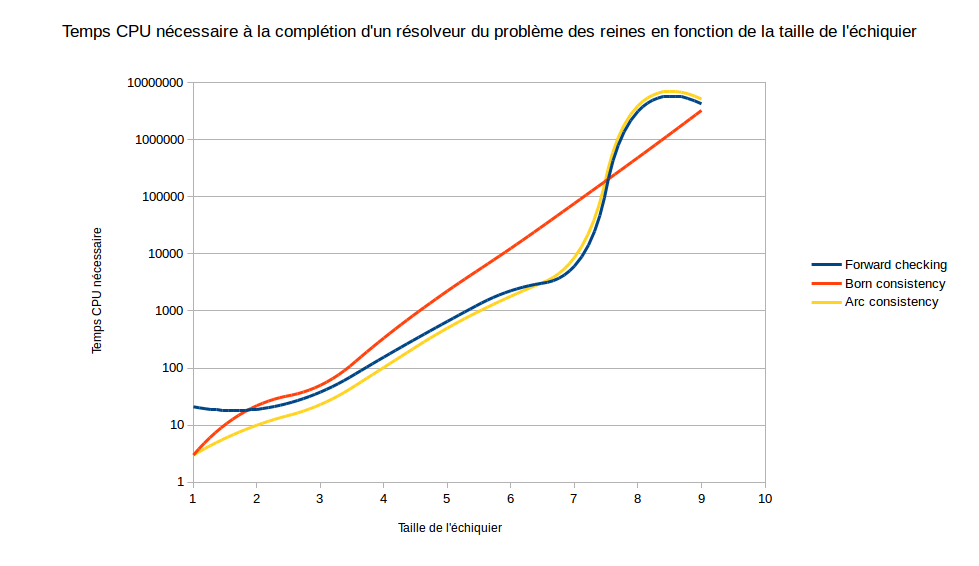
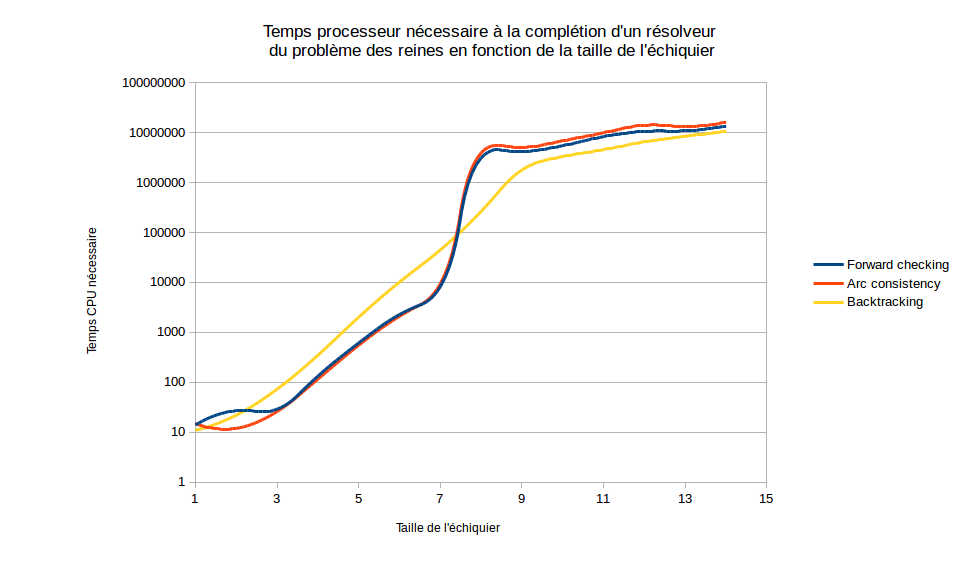
rtyhytrdjh

diff --git a/CP-C/main.c b/CP-C/main.c
@@ -9,6 +9,7 @@
 #define FWD_CHKING 0
 #define BORN_CONS 1
 #define ARC_CONS 2
+#define BACKTRK 3
     
 #include "Constraint.h"
 #include "Problem.h"
@@ -121,11 +122,11 @@ Domain Prune_BornConsistency(Problem* P,Domain D){
 
 
 
-int BranchAndPrune(int taille,int typeOfPruning){
+int BranchAndPrune(int taille,int typeOfPruning,int* nbSolutions){
   int xi;
   //Domain* E = newDomain(taille);//,F,G;
   pile* dxi;
-
+	*nbSolutions=0;
 	Problem* P = newProblem(taille);
 	pile_Dom** L = calloc(1,sizeof(pile_Dom*));
 	
@@ -134,17 +135,19 @@ int BranchAndPrune(int taille,int typeOfPruning){
   int t=0;
   while((t<NOMBRE_MAXIMUM_ITERATIONS) && (Length_dom(*L)>0) ){
     //Domain E,F,G;
-   
+    
     t++;
     AFFICHAGE_STANDARD printf("Taille de L : %d\n",Length_dom(*L));
     Domain F;
     Domain E ;
     Pop_dom(L,&F);
     //afficherDomain(F);
-    
     if ( typeOfPruning == FWD_CHKING ) E = Prune_ForwardChecking(P,F);
     if ( typeOfPruning == BORN_CONS ) E = Prune_BornConsistency(P,F);
     if ( typeOfPruning == ARC_CONS ) E = Prune_ArcConsistency(P,F);
+    if ( typeOfPruning == BACKTRK ) {
+		E = F;
+    }
     AFFICHAGE_STANDARD afficherDomain(E);
     /*if(!isEmpty(E))
       afficherDomain(E);*/
@@ -157,6 +160,7 @@ int BranchAndPrune(int taille,int typeOfPruning){
     else{
       if(isSolution(E,*P)){
         AFFICHAGE_STANDARD printf("Une solution a été trouvée.\n");
+        *nbSolutions=(*nbSolutions)+1;
         printSolution(E);
       }
       else{
@@ -212,7 +216,7 @@ void showLogCSV(timeLog* log){
 	
 	for (int i=0;i< (log->nbOfRecords );i++){
 		if ( (log->records)[i].pruneType == FWD_CHKING ) printf("FWD_CHKING;");
-		if ( (log->records)[i].pruneType == BORN_CONS ) printf("BORN_CONS;");
+		if ( (log->records)[i].pruneType == BACKTRK ) printf("BACKTRK;");
 		if ( (log->records)[i].pruneType == ARC_CONS ) printf("ARC_CONS;");
 		printf("%d;",(log->records)[i].sizeFactor);
 		printf("%s;%lu;\n",(log->records)[i].name,(log->records)[i].stop);
@@ -247,33 +251,37 @@ int main()
   int maxNameLen = 200;
   char* buffer=calloc(maxNameLen,sizeof(char));
   int timerIndex;
-  int maxNbOfIterations = 20;
-  
+  int maxNbOfIterations = 15;
+  int* nbSolutions=calloc(1,sizeof(int));
+ 
   for(int i=1;i<maxNbOfIterations;incrementer(&i)){
 	TIMER_ON snprintf ( buffer, maxNameLen, "BranchAndPrune(%d,FWD_CHKING)",i);  
 	TIMER_ON timerIndex= newTimer(log,buffer,FWD_CHKING, i);
-	BranchAndPrune(i,FWD_CHKING);
+	BranchAndPrune(i,FWD_CHKING,nbSolutions);
 	TIMER_ON stopTimer(log, timerIndex);  
+	//printf("Nb Solutions : %d\n",(*nbSolutions));
 	AFFICHAGE_STANDARD printf("Done i = %d\n",i);
-  }
+  }/*
   for(int i=1;i<maxNbOfIterations;incrementer(&i)){
-	TIMER_ON snprintf ( buffer, maxNameLen, "BranchAndPrune(%d,BORN_CONS)",i);  
-	TIMER_ON timerIndex= newTimer(log,buffer,BORN_CONS,i);
-	BranchAndPrune(i,BORN_CONS);
+	TIMER_ON snprintf ( buffer, maxNameLen, "BranchAndPrune(%d,BACKTRK)",i);  
+	TIMER_ON timerIndex= newTimer(log,buffer,BACKTRK,i);
+	BranchAndPrune(i,BACKTRK,nbSolutions);
 	TIMER_ON stopTimer(log, timerIndex);  
+	//printf("Nb Solutions : %d\n",*nbSolutions);
 	AFFICHAGE_STANDARD printf("Done i = %d\n",i);
-  }
+  }/*
   for(int i=1;i<maxNbOfIterations;incrementer(&i)){
 	TIMER_ON snprintf ( buffer, maxNameLen, "BranchAndPrune(%d,ARC_CONS)",i);  
 	TIMER_ON timerIndex= newTimer(log,buffer,ARC_CONS,i);
-	BranchAndPrune(i,ARC_CONS);
+	BranchAndPrune(i,ARC_CONS,nbSolutions);
 	TIMER_ON stopTimer(log, timerIndex);  
+	//printf("Nb Solutions : %d\n",*nbSolutions);
 	AFFICHAGE_STANDARD printf("Done i = %d\n",i);
-  }
+  }*/
   
   
   TIMER_ON showLogCSV(log);
-  
+  free(nbSolutions);
   destroyLog(log);
   free(log);
   free(buffer);
